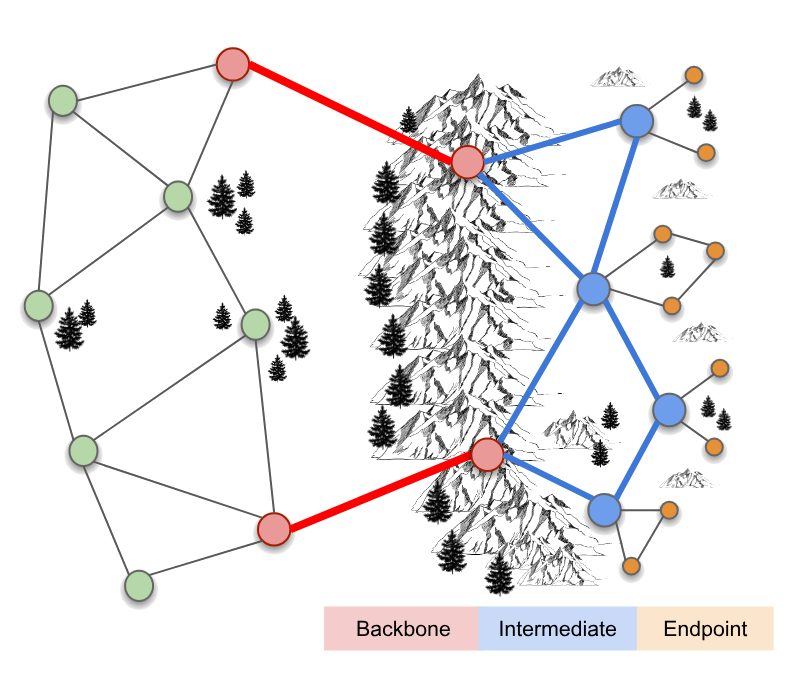
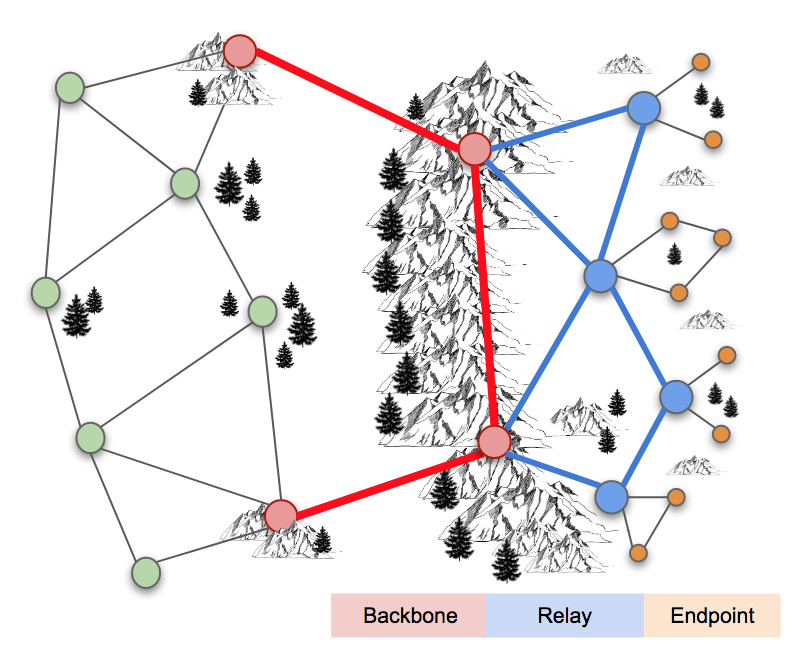
Add clear browser cache to firmware install section (#34)
* Add clear browser cache to firmware install section

Add a paragraph explaining why clearing the web browser cache may be 
required during firmware installs.

* Update link types graphic

Update link types graphic

* Update backbone diagram

Update backbone link on topology diagram

* Update backbone diagram

diff --git a/arednGettingStarted/installing_firmware.rst b/arednGettingStarted/installing_firmware.rst
@@ -6,7 +6,7 @@ The steps for installing device firmware are documented on the AREDN |trade| web
 
 There are two cases for installing AREDN |trade| firmware:
 
-1. If you already have an existing version of AREDN |trade| running on your device, then you can use your computer's web interface to navigate to **Setup > Administration > Firmware Update** to install your new firmware. This process will be explained in more detail in the **Advanced Configuration** section of this guide.
+1. If you already have an existing version of AREDN |trade| running on your device, then you can use your computer's web interface to navigate to **Setup > Administration > Firmware Update** to install your new firmware. This process will be explained in more detail in the **Advanced Configuration** section of this guide. Also, see *Firmware Upgrade Tips* in the **How-to Guides** section for additional information.
 
 ----------
 
@@ -19,6 +19,8 @@ There are two cases for installing AREDN |trade| firmware:
    The diagram above shows that your computer with the downloaded firmware image must be connected to the node using Ethernet cables in order to install the AREDN |trade| image. It is helpful to connect the computer and node through a simple Ethernet switch so that the switch can maintain the computer's link while the node is being rebooted.
 
    Different node hardware will require different methods for installing the AREDN |trade| firmware. For Ubiquiti devices, your computer's TFTP client will connect to the node's TFTP server in order to upload the firmware image. For TP-LINK and GL-iNET devices, your computer's web browser will connect to the node's web server to upload the firmware image. For Mikrotik devices, your computer will run a remote boot server and the node's remote boot client will load its boot image from your computer. Refer to the specific procedures below for your node hardware.
+
+  One common issue can occur when installing firmware using a web browser interface. The browser cache stores data for the URLs that have been visited, but IP addresses and other parameters often change during the install process. It is possible for the cache to contain information that doesn’t match the latest settings for the URL, so the browser may block the connection setup and display an ERR_CONNECTION_RESET message. Clearing the web browser's cache will allow the latest URL settings to be registered so you can continue with the install process.
 
 Ubiquiti First Install Process
 ------------------------------

diff --git a/arednHow-toGuides/iperf.rst b/arednHow-toGuides/iperf.rst
@@ -9,7 +9,7 @@ Understand the impact to your network before using iperf. During the test period
 Installing iperf and IperfSpeed
 -------------------------------
 
-Two packages should be installed on each AREDN |trade| node in order to facilitate testing between nodes. The `iperf3 <http://downloads.arednmesh.org/releases/3/18/3.18.9.0/packages/mips_24kc/base/iperf3_3.5-1AREDN_mips_24kc.ipk>`_ package allows the nodes to function either as an iperf client or server during the test. The `iperfspeed <https://s3.amazonaws.com/aredn/iperfspeed_0.5_all.ipk>`_ package provides a web-based control interface for running network tests between the nodes.
+Two packages should be installed on each AREDN |trade| node in order to facilitate testing between nodes. The `iperf3 <http://downloads.arednmesh.org/releases/3/19/3.19.3.0/packages/mips_24kc/base/iperf3_3.5-1AREDN_mips_24kc.ipk>`_ package allows the nodes to function either as an iperf client or server during the test. The `iperfspeed <https://s3.amazonaws.com/aredn/iperfspeed_0.5_all.ipk>`_ package provides a web-based control interface for running network tests between the nodes.
 
 Using IperfSpeed
 ----------------
